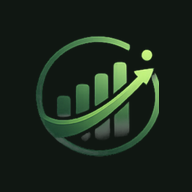
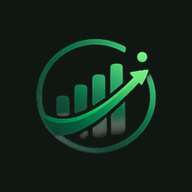
feat: animated emblem mark in sidebar (logoo.png) + high-tech FX
Sidebar brand is now the emblem-only logo (logoo.png) + 'Budget Tracker'
wordmark. The emblem has an advanced animation: a rotating conic scanner
ring, a light sheen that sweeps across the logo shape (mask-image), and a
soft glow pulse — all reduced-motion safe. Favicon/app-icons/avatar
fallback recut from the same emblem.

Changed region(s): [[0.1875, 0.25, 0.8438, 0.8125], [0.2188, 0.1875, 0.6875, 0.375], [0.1875, 0.375, 0.2188, 0.4062]]

diff --git a/src/app/globals.css b/src/app/globals.css
@@ -159,8 +159,18 @@ html[data-theme="dark"] .danger-button { background: rgba(201, 77, 85, .14); col
 .app-shell { min-height: 100vh; background: var(--canvas); }
 .sidebar { position: fixed; z-index: 30; inset: 0 auto 0 0; width: 244px; padding: 24px 18px 18px; display: flex; flex-direction: column; background: #f8f9f6; border-right: 1px solid var(--line); }
 .sidebar-top { height: 48px; padding: 0 7px; display: flex; align-items: center; justify-content: space-between; }
-.sidebar-top .brand-lockup { display: inline-flex; align-items: center; }
-.sidebar-top .brand-logo { height: 30px; }
+.sidebar-top .brand-lockup { display: inline-flex; align-items: center; gap: 10px; }
+.brand-wordmark { font-size: 17px; font-weight: 700; letter-spacing: -.02em; color: var(--ink); white-space: nowrap; line-height: 1; }
+.brand-wordmark span { color: var(--green-deep); }
+.brand-mark-anim { position: relative; width: 34px; height: 34px; flex: none; }
+.brand-mark-img { position: relative; z-index: 1; width: 100%; height: 100%; object-fit: contain; }
+.brand-mark-anim::before { content: ""; position: absolute; inset: -4px; border-radius: 50%; background: conic-gradient(from 0deg, transparent 0deg 248deg, rgba(34, 184, 119, .9) 318deg, transparent 360deg); -webkit-mask: radial-gradient(farthest-side, transparent calc(100% - 3px), #000 calc(100% - 3px)); mask: radial-gradient(farthest-side, transparent calc(100% - 3px), #000 calc(100% - 3px)); animation: markSpin 2.6s linear infinite; z-index: 0; }
+.brand-mark-anim::after { content: ""; position: absolute; inset: -2px; border-radius: 50%; animation: markGlow 3s ease-in-out infinite; z-index: 0; }
+.brand-mark-sheen { position: absolute; inset: 0; z-index: 2; pointer-events: none; -webkit-mask: url(/brand-emblem.png) center / contain no-repeat; mask: url(/brand-emblem.png) center / contain no-repeat; background: linear-gradient(115deg, transparent 38%, rgba(255, 255, 255, .9) 50%, transparent 62%); background-size: 300% 100%; background-repeat: no-repeat; animation: markSheen 3.4s ease-in-out infinite; mix-blend-mode: screen; }
+@keyframes markSpin { to { transform: rotate(360deg); } }
+@keyframes markGlow { 0%, 100% { box-shadow: 0 0 8px -3px rgba(34, 184, 119, .35); } 50% { box-shadow: 0 0 17px 0 rgba(34, 184, 119, .6); } }
+@keyframes markSheen { 0% { background-position: 180% 0; } 55%, 100% { background-position: -120% 0; } }
+@media (prefers-reduced-motion: reduce) { .brand-mark-anim::before, .brand-mark-anim::after, .brand-mark-sheen { animation: none; } }
 .sidebar-close { display: none; }
 .sidebar nav { margin-top: 34px; display: grid; gap: 5px; }
 .sidebar nav button { position: relative; width: 100%; height: 43px; padding: 0 12px; border: 0; border-radius: 7px; display: flex; align-items: center; gap: 12px; background: transparent; color: #65706a; font-size: 13px; font-weight: 540; cursor: pointer; text-align: left; }

diff --git a/src/components/budget-dashboard.tsx b/src/components/budget-dashboard.tsx
@@ -541,7 +541,7 @@ export function BudgetDashboard({ initialData, sessionEmail, initialPrivacy = fa
   return (
     <div className="app-shell">
       <aside className={`sidebar ${sidebarOpen ? "open" : ""}`}>
-        <div className="sidebar-top"><span className="brand-lockup"><img className="brand-logo for-light" src="/brand-logo-ink.png" alt="Budget Tracker" /><img className="brand-logo for-dark" src="/brand-logo.png" alt="Budget Tracker" /></span><button className="icon-button sidebar-close" onClick={() => setSidebarOpen(false)} title="Close menu"><X size={19} /></button></div>
+        <div className="sidebar-top"><span className="brand-lockup"><span className="brand-mark-anim"><img className="brand-mark-img" src="/brand-emblem.png" alt="" /><span className="brand-mark-sheen" aria-hidden="true" /></span><span className="brand-wordmark">Budget <span>Tracker</span></span></span><button className="icon-button sidebar-close" onClick={() => setSidebarOpen(false)} title="Close menu"><X size={19} /></button></div>
         <nav>{navItems.map(({ id, label, icon: Icon }) => <button key={id} className={view === id ? "active" : ""} onClick={() => { setView(id); setSidebarOpen(false); }}><Icon size={18} /><span>{label}</span>{view === id && <motion.i layoutId="nav-active" />}</button>)}</nav>
         <button className="primary-button sidebar-add" onClick={openAddTransaction}><Plus size={17} /><span>Add transaction</span></button>
         <div className="sidebar-bottom">
